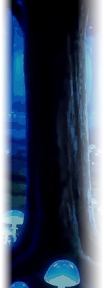
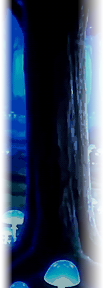
Sharpen the mockup: denoised, dithered backdrop, posterised lights, elliptical fog, sparser foreground
Claude-Session: https://claude.ai/code/session_01HT98zpBdp9XBvQBdheGTvC

diff --git a/lib/game/mockup.ts b/lib/game/mockup.ts
@@ -59,6 +59,7 @@ export class Mockup {
   private trunkR!: HTMLImageElement;
   private meta!: BgMeta;
   private lightCanvas: HTMLCanvasElement;
+  private fxCanvas: HTMLCanvasElement;
   private ready = false;
 
   // Player
@@ -88,6 +89,9 @@ export class Mockup {
     this.lightCanvas = document.createElement("canvas");
     this.lightCanvas.width = VIEW_W;
     this.lightCanvas.height = VIEW_H;
+    this.fxCanvas = document.createElement("canvas");
+    this.fxCanvas.width = VIEW_W;
+    this.fxCanvas.height = VIEW_H;
     (canvas as HTMLCanvasElement & { lostGardenMockup?: Mockup }).lostGardenMockup = this;
   }
 
@@ -295,13 +299,20 @@ export class Mockup {
     const cam = Math.round(this.cameraX);
 
     this.drawTiled(this.bg, 0.45, 0, cam);
-    // Depth haze between the far layer and the near ground.
-    const haze = ctx.createLinearGradient(0, this.meta.groundTop - 60, 0, this.meta.groundTop + 30);
-    haze.addColorStop(0, "rgba(40, 110, 190, 0)");
-    haze.addColorStop(1, "rgba(40, 110, 190, 0.28)");
-    ctx.fillStyle = haze;
-    ctx.fillRect(0, this.meta.groundTop - 60, VIEW_W, 90);
-    this.drawLightShafts(cam);
+    // Depth haze and light shafts, posterised so they sit on the pixel grid.
+    const fx = this.fxCanvas.getContext("2d");
+    if (fx) {
+      fx.globalCompositeOperation = "source-over";
+      fx.clearRect(0, 0, VIEW_W, VIEW_H);
+      const haze = fx.createLinearGradient(0, this.meta.groundTop - 70, 0, this.meta.groundTop + 30);
+      haze.addColorStop(0, "rgba(60, 140, 220, 0)");
+      haze.addColorStop(1, "rgba(60, 140, 220, 0.3)");
+      fx.fillStyle = haze;
+      fx.fillRect(0, this.meta.groundTop - 70, VIEW_W, 100);
+      this.drawLightShafts(fx, cam);
+      this.ditherAlpha(this.fxCanvas, 6, false);
+      ctx.drawImage(this.fxCanvas, 0, 0);
+    }
     this.drawTiled(this.ground, 1, this.meta.groundTop, cam);
     this.collectBackgroundLights(cam);
 
@@ -311,8 +322,14 @@ export class Mockup {
 
     this.renderLighting(0.5);
     this.drawForeground(cam);
-    this.drawFog(cam);
-    this.drawVignette();
+    if (fx) {
+      fx.globalCompositeOperation = "source-over";
+      fx.clearRect(0, 0, VIEW_W, VIEW_H);
+      this.drawFog(fx, cam);
+      this.drawVignette(fx);
+      this.ditherAlpha(this.fxCanvas, 8, false);
+      ctx.drawImage(this.fxCanvas, 0, 0);
+    }
   }
 
   /** Draws an image tiled horizontally with mirrored repeats, at a parallax factor. */
@@ -355,17 +372,35 @@ export class Mockup {
     }
   }
 
-  private drawLightShafts(cam: number) {
-    const ctx = this.ctx;
+  /** Posterise a canvas's alpha into a few levels with a Bayer 4x4 ordered dither. */
+  private ditherAlpha(canvas: HTMLCanvasElement, levels: number, dither = true) {
+    const c = canvas.getContext("2d");
+    if (!c) return;
+    const img = c.getImageData(0, 0, canvas.width, canvas.height);
+    const d = img.data;
+    const w = canvas.width;
+    const bayer = [0, 8, 2, 10, 12, 4, 14, 6, 3, 11, 1, 9, 15, 7, 13, 5];
+    for (let i = 0, p = 0; i < d.length; i += 4, p += 1) {
+      const a = d[i + 3];
+      if (a === 0) continue;
+      const x = p % w;
+      const y = (p - x) / w;
+      const t = dither ? (bayer[(y & 3) * 4 + (x & 3)] + 0.5) / 16 : 0.5;
+      const q = Math.floor((a / 255) * levels + t) / levels;
+      d[i + 3] = Math.max(0, Math.min(255, Math.round(q * 255)));
+    }
+    c.putImageData(img, 0, 0);
+  }
+
+  private drawLightShafts(ctx: CanvasRenderingContext2D, cam: number) {
     ctx.save();
-    ctx.globalCompositeOperation = "lighter";
     for (let i = 0; i < 6; i += 1) {
       const x = ((i * 137 - cam * 0.3 + this.time * 0.05) % (VIEW_W + 200)) - 100;
-      const a = 0.08 + 0.04 * Math.sin(this.time / 90 + i);
+      const a = 0.16 + 0.06 * Math.sin(this.time / 90 + i);
       const g = ctx.createLinearGradient(x, 0, x + 60, VIEW_H);
-      g.addColorStop(0, `rgba(140, 200, 255, ${a})`);
-      g.addColorStop(0.7, `rgba(140, 200, 255, ${a * 0.4})`);
-      g.addColorStop(1, "rgba(140, 200, 255, 0)");
+      g.addColorStop(0, `rgba(150, 210, 255, ${a})`);
+      g.addColorStop(0.7, `rgba(150, 210, 255, ${a * 0.4})`);
+      g.addColorStop(1, "rgba(150, 210, 255, 0)");
       ctx.fillStyle = g;
       ctx.beginPath();
       ctx.moveTo(x, 0);
@@ -484,17 +519,25 @@ export class Mockup {
       lc.fillStyle = rg;
       lc.fillRect(l.x - l.r, l.y - l.r, l.r * 2, l.r * 2);
     }
+    this.ditherAlpha(this.lightCanvas, 12, false);
     const ctx = this.ctx;
     ctx.drawImage(this.lightCanvas, 0, 0);
-    ctx.globalCompositeOperation = "lighter";
+    // Coloured glow, additive, posterised the same way.
+    const fx = this.fxCanvas.getContext("2d");
+    if (!fx) return;
+    fx.globalCompositeOperation = "source-over";
+    fx.clearRect(0, 0, VIEW_W, VIEW_H);
     for (const l of this.lights) {
       if (!l.color || l.x < -l.r || l.x > VIEW_W + l.r) continue;
-      const rg = ctx.createRadialGradient(l.x, l.y, 0, l.x, l.y, l.r * 0.85);
+      const rg = fx.createRadialGradient(l.x, l.y, 0, l.x, l.y, l.r * 0.85);
       rg.addColorStop(0, l.color);
       rg.addColorStop(1, "rgba(0, 0, 0, 0)");
-      ctx.fillStyle = rg;
-      ctx.fillRect(l.x - l.r, l.y - l.r, l.r * 2, l.r * 2);
+      fx.fillStyle = rg;
+      fx.fillRect(l.x - l.r, l.y - l.r, l.r * 2, l.r * 2);
     }
+    this.ditherAlpha(this.fxCanvas, 6, false);
+    ctx.globalCompositeOperation = "lighter";
+    ctx.drawImage(this.fxCanvas, 0, 0);
     ctx.globalCompositeOperation = "source-over";
   }
 
@@ -502,21 +545,23 @@ export class Mockup {
     const ctx = this.ctx;
     const fg = cam * 1.5;
     // Painted trunks from the frame, spaced out along the road.
-    const period = 760;
+    const period = 1040;
+    ctx.globalAlpha = 0.88;
     for (let i = -1; i < 3; i += 1) {
       const idx = Math.floor(fg / period) + i;
       const base = idx * period - (fg % period);
-      const jitter = rnd(idx + 900) * 120;
+      const jitter = rnd(idx + 900) * 160;
       ctx.drawImage(this.trunkL, Math.round(base + jitter), 0);
-      ctx.drawImage(this.trunkR, Math.round(base + jitter + 420 + rnd(idx + 901) * 120), 0);
+      ctx.drawImage(this.trunkR, Math.round(base + jitter + 560 + rnd(idx + 901) * 160), 0);
     }
+    ctx.globalAlpha = 1;
     // Canopy silhouettes along the top, rim-lit by the blue haze.
     const canopy = cam * 1.25;
     for (let i = -1; i < 8; i += 1) {
       const idx = Math.floor(canopy / 120) + i;
       const x = idx * 120 - (canopy % 120) + rnd(idx + 700) * 40;
-      const rx = 50 + rnd(idx + 701) * 40;
-      const ry = 18 + rnd(idx + 702) * 22;
+      const rx = 40 + rnd(idx + 701) * 50;
+      const ry = 10 + rnd(idx + 702) * 20;
       ctx.fillStyle = "#020a17";
       ctx.beginPath();
       ctx.ellipse(x, -6 + Math.sin(this.time / 90 + idx) * 2, rx, ry, 0, 0, Math.PI);
@@ -545,25 +590,33 @@ export class Mockup {
     }
   }
 
-  private drawFog(cam: number) {
-    const ctx = this.ctx;
+  private drawFog(ctx: CanvasRenderingContext2D, cam: number) {
+    // Elliptical fog puffs drifting along the ground, no hard edges.
     for (let i = 0; i < 3; i += 1) {
-      const y = VIEW_H - 26 - i * 16 + Math.sin(this.time / 80 + i) * 3;
-      const g = ctx.createLinearGradient(0, y - 16, 0, y + 16);
-      const a = 0.07 + 0.04 * Math.sin(this.time / 60 + i * 2);
-      g.addColorStop(0, "rgba(120, 180, 240, 0)");
-      g.addColorStop(0.5, `rgba(120, 180, 240, ${a})`);
-      g.addColorStop(1, "rgba(120, 180, 240, 0)");
-      ctx.fillStyle = g;
-      const shift = (cam * (0.9 + i * 0.2) + this.time * (0.2 + i * 0.05)) % 220;
-      for (let x = -220 - shift; x < VIEW_W + 220; x += 220) {
-        ctx.fillRect(x, y - 16, 150 + rnd(i * 3 + Math.floor((x + shift) / 220)) * 90, 32);
+      const y = VIEW_H - 22 - i * 14 + Math.sin(this.time / 80 + i) * 3;
+      const a = 0.14 + 0.06 * Math.sin(this.time / 60 + i * 2);
+      const period = 200 + i * 40;
+      const shift = (cam * (0.9 + i * 0.2) + this.time * (0.25 + i * 0.05)) % period;
+      for (let x = -period - shift; x < VIEW_W + period; x += period) {
+        const k = Math.floor((x + shift) / period);
+        const rx = 90 + rnd(i * 3 + k) * 60;
+        const ry = 14 + rnd(i * 5 + k) * 8;
+        const g = ctx.createRadialGradient(x, y, 0, x, y, rx);
+        g.addColorStop(0, `rgba(120, 180, 240, ${a})`);
+        g.addColorStop(0.6, `rgba(120, 180, 240, ${a * 0.5})`);
+        g.addColorStop(1, "rgba(120, 180, 240, 0)");
+        ctx.save();
+        ctx.translate(x, y);
+        ctx.scale(1, ry / rx);
+        ctx.translate(-x, -y);
+        ctx.fillStyle = g;
+        ctx.fillRect(x - rx, y - rx, rx * 2, rx * 2);
+        ctx.restore();
       }
     }
   }
 
-  private drawVignette() {
-    const ctx = this.ctx;
+  private drawVignette(ctx: CanvasRenderingContext2D) {
     const g = ctx.createRadialGradient(VIEW_W / 2, VIEW_H / 2, VIEW_H * 0.45, VIEW_W / 2, VIEW_H / 2, VIEW_W * 0.75);
     g.addColorStop(0, "rgba(2, 6, 18, 0)");
     g.addColorStop(1, "rgba(2, 6, 18, 0.55)");

diff --git a/scripts/build-game-assets.py b/scripts/build-game-assets.py
@@ -12,7 +12,7 @@ from collections import deque
 from pathlib import Path
 
 import numpy as np
-from PIL import Image, ImageFilter
+from PIL import Image, ImageEnhance, ImageFilter
 
 SRC = Path(sys.argv[1] if len(sys.argv) > 1 else "/home/user/lost-garden")
 OUT = Path(__file__).resolve().parent.parent / "public" / "game"
@@ -38,16 +38,48 @@ def quantize(img: Image.Image, colors: int) -> Image.Image:
     return q.convert("RGB")
 
 
+BAYER = np.array([[0, 8, 2, 10], [12, 4, 14, 6], [3, 11, 1, 9], [15, 7, 13, 5]], dtype=float) / 16.0 - 0.5
+
+
+def ordered_quantize(img: Image.Image, colors: int, strength: float) -> Image.Image:
+    """Median-cut palette plus a Bayer 4x4 ordered dither: the classic 16-bit texture."""
+    rgb = img.convert("RGB")
+    pal_img = rgb.quantize(colors=colors, method=Image.Quantize.MEDIANCUT, dither=Image.Dither.NONE)
+    pal = np.array(pal_img.getpalette()[: colors * 3]).reshape(-1, 3).astype(float)
+    a = np.asarray(rgb).astype(float)
+    h, w, _ = a.shape
+    tile = np.tile(BAYER, (h // 4 + 1, w // 4 + 1))[:h, :w]
+    a = a + tile[..., None] * strength
+    flat = a.reshape(-1, 3)
+    out = np.empty(flat.shape[0], dtype=np.int64)
+    step = 65536
+    for i in range(0, flat.shape[0], step):
+        chunk = flat[i : i + step]
+        d = ((chunk[:, None, :] - pal[None, :, :]) ** 2).sum(axis=2)
+        out[i : i + step] = d.argmin(axis=1)
+    return Image.fromarray(pal[out].reshape(h, w, 3).astype(np.uint8), "RGB")
+
+
+def clean_pixel_art(img: Image.Image, colors: int) -> Image.Image:
+    rgb = img.convert("RGB")
+    rgb = ImageEnhance.Contrast(rgb).enhance(1.1)
+    rgb = ImageEnhance.Color(rgb).enhance(1.15)
+    rgb = rgb.filter(ImageFilter.UnsharpMask(radius=1, percent=120, threshold=1))
+    return ordered_quantize(rgb, colors, 5)
+
+
 def build_forest_background():
     frame = Image.open(SRC / "08_Storyboard/EP1/prod/EP1_05m15s.jpg").convert("RGB")
     # Remove Lanterne (centre bottom) and the machine (centre back) with clone patches.
     feather_patch(frame, (520, 330, 690, 520), (720, 330, 890, 520), feather=22)
     feather_patch(frame, (500, 130, 830, 300), (860, 130, 1190, 300), feather=26)
     feather_patch(frame, (560, 300, 720, 350), (900, 300, 1060, 350), feather=14)
+    # Denoise the JPEG before shrinking, then shrink with area averaging.
+    frame = frame.filter(ImageFilter.MedianFilter(3))
     scale = VIEW_H / frame.height
     w = int(round(frame.width * scale))
     small = frame.resize((w, VIEW_H), Image.LANCZOS)
-    bg = quantize(small, 72)
+    bg = clean_pixel_art(small, 64)
     bg.save(OUT / "bg-forest.png", optimize=True)
 
     # Near ground strip (parallax 1) with a feathered top edge so it melts into the far layer.
@@ -165,6 +197,7 @@ def pixelize_sprite(rgba: Image.Image, height: int, colors: int, outline=(11, 11
     rgb = np.clip(rgb, 0, 255).astype(np.uint8)
     hard = (p[..., 3] > 110).astype(np.uint8)
     rgb_img = Image.fromarray(rgb, "RGB")
+    rgb_img = ImageEnhance.Contrast(rgb_img).enhance(1.1)
     q = rgb_img.quantize(colors=colors, method=Image.Quantize.MEDIANCUT, dither=Image.Dither.NONE).convert("RGB")
     out = np.zeros((height + 2, w + 2, 4), dtype=np.uint8)
     out[1:-1, 1:-1, :3] = np.asarray(q)
@@ -200,7 +233,7 @@ def build_lanterne():
     meta = {}
     for name, (x0, x1) in zip(names, views[:3]):
         view = keyed.crop((x0, 0, x1, sheet.height))
-        spr = pixelize_sprite(view, 76, 40)
+        spr = pixelize_sprite(view, 76, 28)
         spr.save(OUT / f"lanterne-{name}.png", optimize=True)
         meta[name] = {"w": spr.width, "h": spr.height}
         print(name, spr.size)
